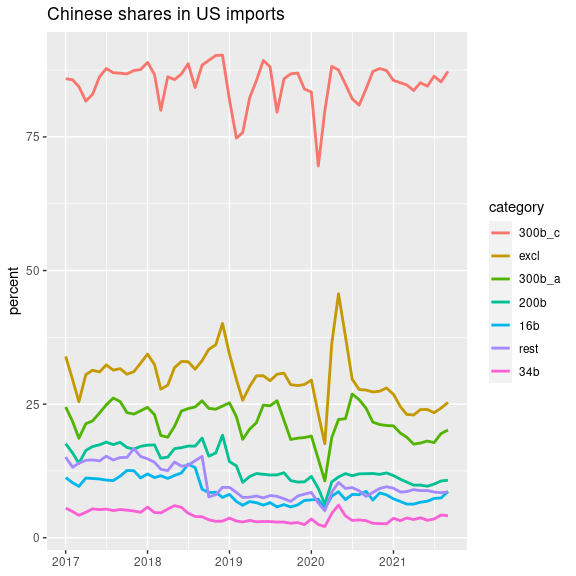
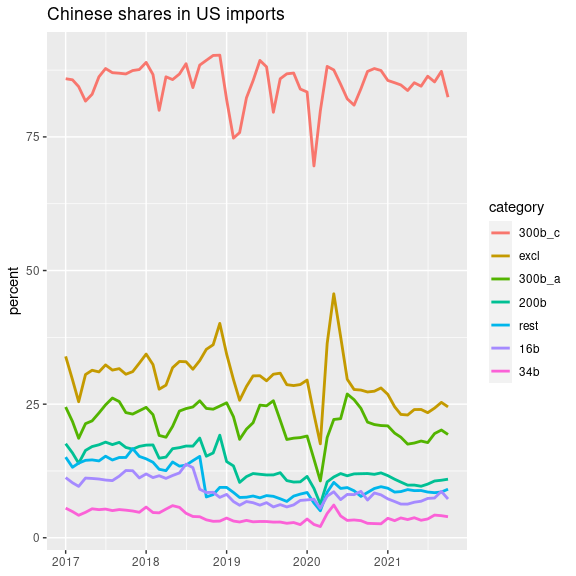
update October 2021 trade

diff --git a/README.md b/README.md
@@ -14,7 +14,7 @@ Mitsuo Shiota
 -   [Look at the Chinese share
     movements](#look-at-the-chinese-share-movements)
 
-Updated: 2021-11-05
+Updated: 2021-12-08
 
 I separated the codes of extracting HTS from USTR site to [another
 page](Extract-hts-from-USTR.md).
